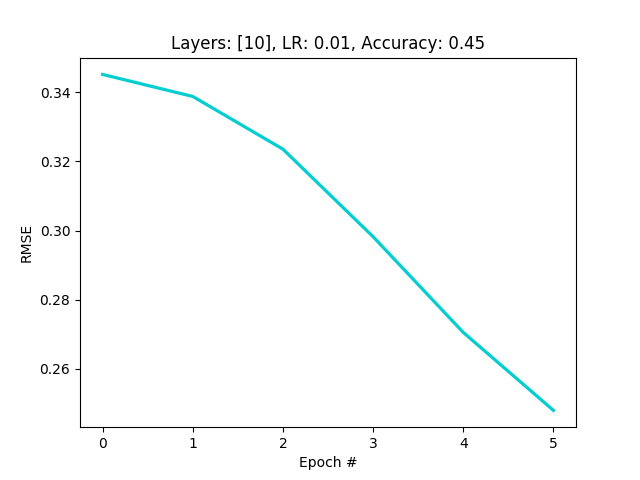
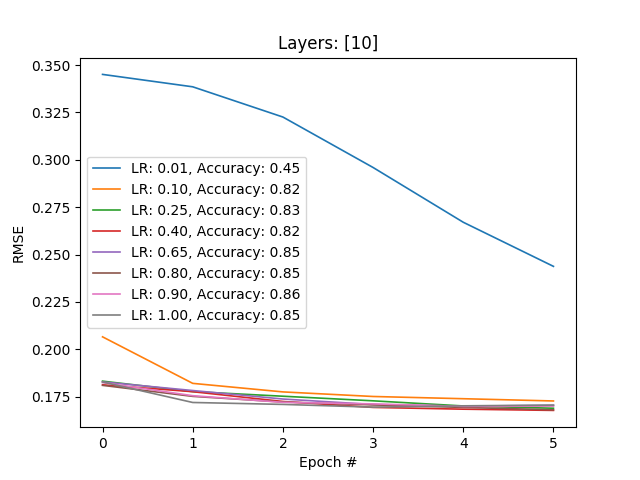
new plot function

diff --git a/project4/backprop.py b/project4/backprop.py
@@ -180,22 +180,26 @@ class BackProp:
         print('TNR: ', tnr, file=ofile)
         print('FScore: ', ppv*tpr/(ppv+tpr), file=ofile)
 
-    def plot_RMSE(self, n):
-        plt.figure(n)
-        title = "Layers: %s, LR: %.2f, Accuracy: %.2f" % (str(self.num_neurons), self.learning_rate, self.accuracy)
-        plt.title(title)
-        plt.plot(range(self.number_epochs), self.RMSE, linestyle='-', color='darkturquoise', linewidth=2.3)
-        plt.xlabel('Epoch #')
-        plt.ylabel('RMSE')
-        plt.savefig('images/rmse_'+str(n)+'.png')
-        plt.close()
+    def plot_RMSE(self, n, lr_num):
+        c=["#1f77b4", "#ff7f0e", "#2ca02c", "#d62728", "#9467bd", "#8c564b", "#e377c2", "#7f7f7f", "#bcbd22", "#17becf"]
+        plt.figure(int(n/lr_num))
+        label = "LR: %.2f, Accuracy: %.2f" % (self.learning_rate, self.accuracy)
+        plt.plot(range(self.number_epochs), self.RMSE, linestyle='-', color=c[(n % lr_num)%10], linewidth=1.2, label=label)
+        if (n % lr_num) == (lr_num-1):
+            title = "Layers: %s" % str(self.num_neurons)
+            plt.title(title)
+            plt.xlabel('Epoch #')
+            plt.ylabel('RMSE')
+            plt.legend()
+            plt.savefig('images/rmse_'+str(int(n/lr_num))+'.png')
+            plt.close()
 
-    def run(self, n, ofile):
+    def run(self, n, lr_num, ofile):
         for i in range(self.number_epochs):
             self.train_network()
             self.validate_network()
         self.test_network(ofile)
-        self.plot_RMSE(n)
+        self.plot_RMSE(n, lr_num)
 
 def main():
     outfile = open('results.txt', 'w+')
@@ -223,7 +227,7 @@ def main():
                [60, 60, 60, 60, 60],
                [60, 70, 100, 70, 60]]
 
-    epochs = [6, 10, 30, 50, 100, 500, 1500, 3000, 5000, 10000]
+    epochs = [6, 10, 30, 60, 200, 800, 2000, 5000]
     lrate = [0.01, 0.1, 0.25, 0.4, 0.65, 0.8, 0.9, 1.0]
 
     for i, l in enumerate(layers):
@@ -233,7 +237,7 @@ def main():
                 print('Problem %d' % n, file=outfile)
                 print('Testing Network %d' % n)
                 try:
-                    BackProp(d, lr, e, len(l), l).run(n, outfile)
+                    BackProp(d, lr, e, len(l), l).run(n, len(lrate), outfile)
                 except OverflowError:
                     print('Overflow in layers combination %d, epochs = %d, and l. rate = %.2f' % (i, j, k), file=outfile)
                 except:
